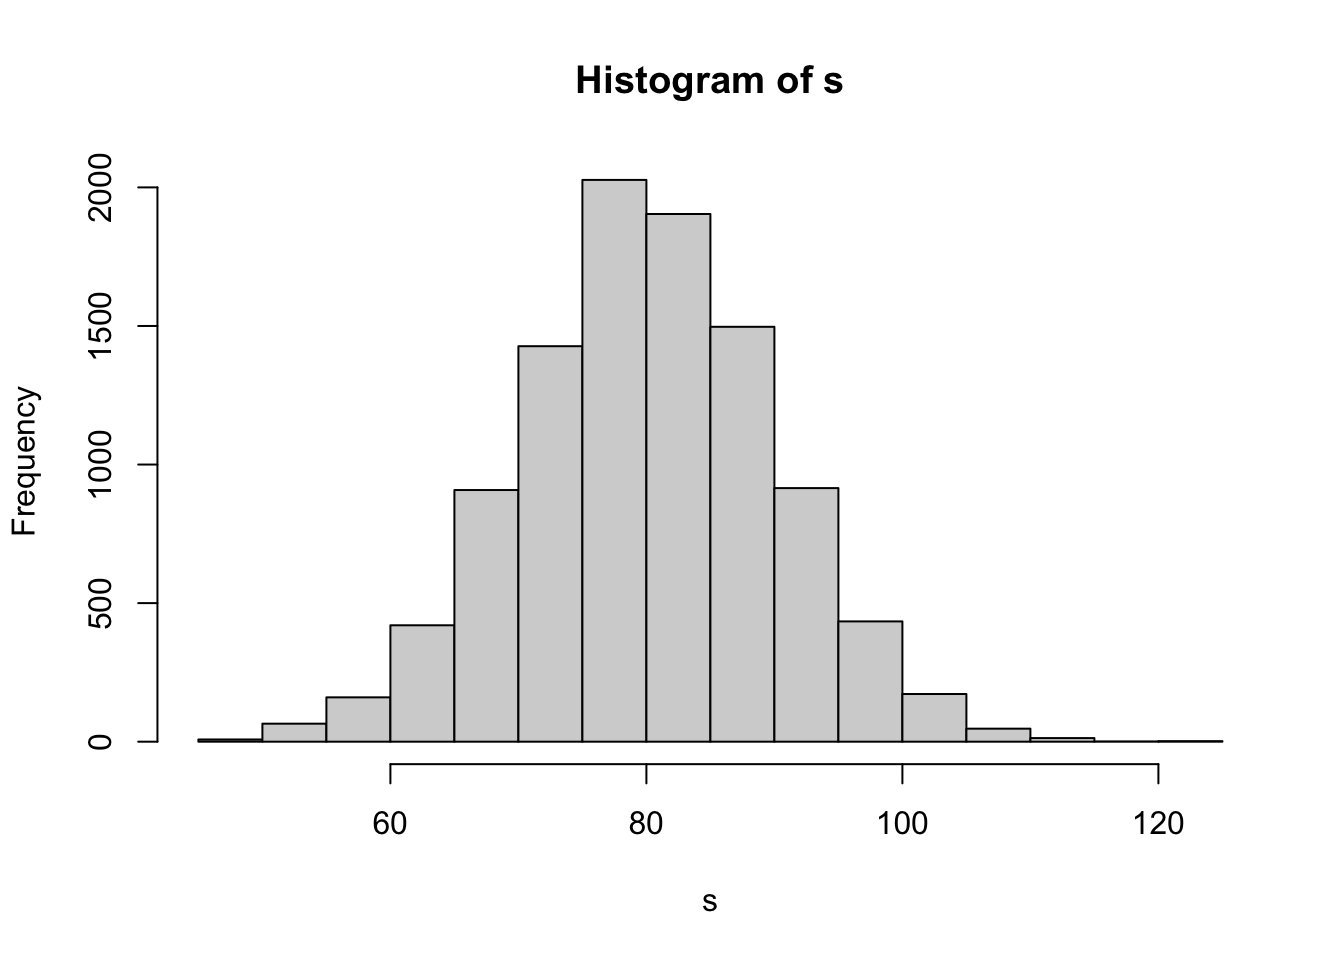
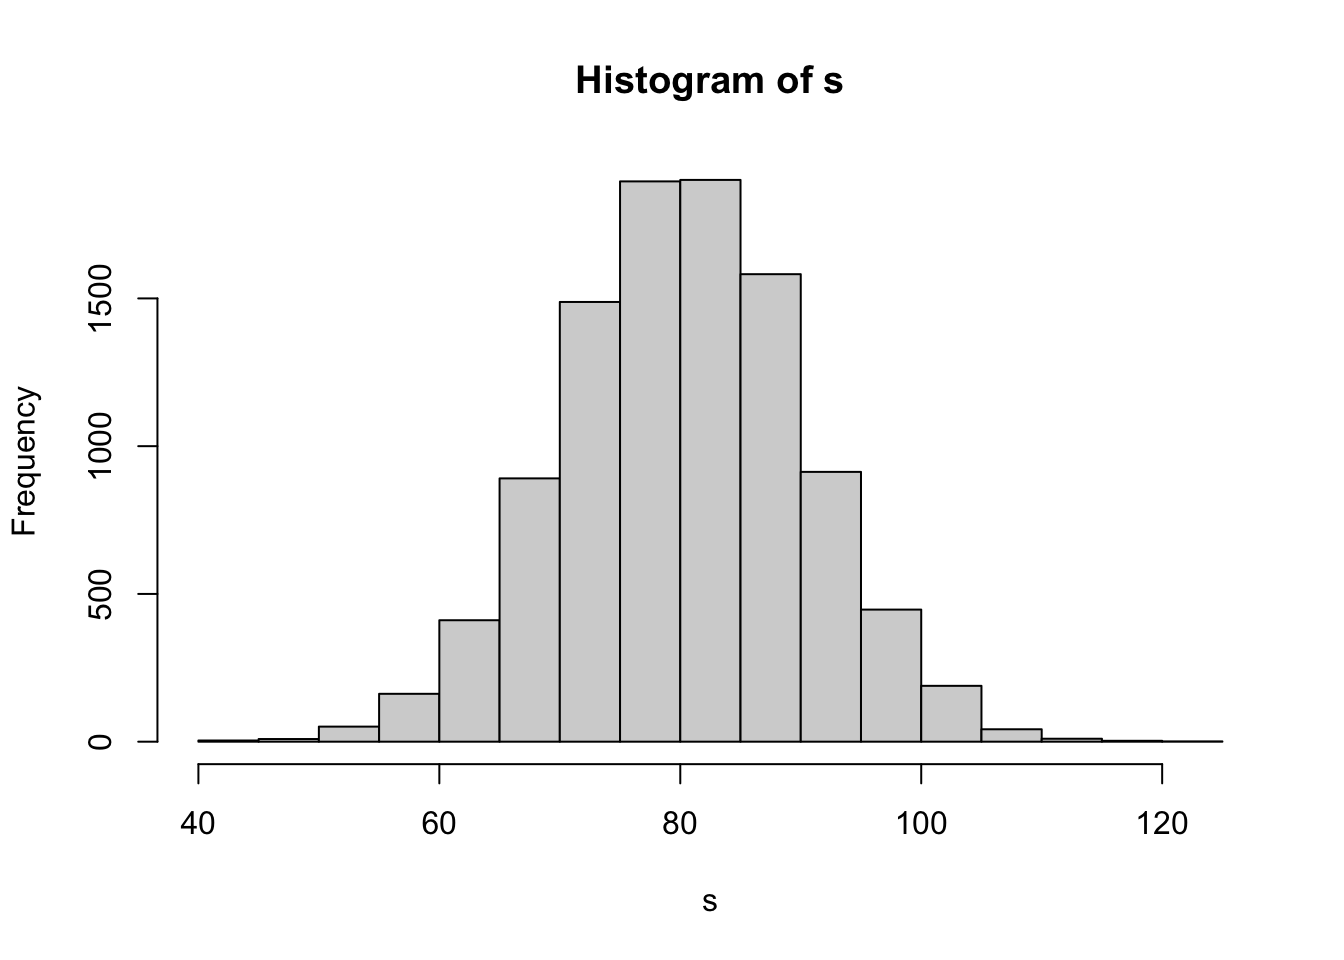
commit

diff --git a/docs/11-module.html b/docs/11-module.html
@@ -426,34 +426,34 @@ pre > code.sourceCode > span > a:first-child::before { text-decoration: underlin
 <span id="cb2-13"><a href="#cb2-13" aria-hidden="true" tabindex="-1"></a><span class="fu">head</span>(df)</span></code><button title="Copy to Clipboard" class="code-copy-button"><i class="bi"></i></button></pre></div>
 <div class="cell-output cell-output-stdout">
 <pre><code>##       name     house   code
-## 1      Ned     Stark 475336
-## 2    Sansa     Stark 283637
-## 3   Cersei Lannister 940472
-## 4   Tyrion Lannister 937513
-## 5      Jon     Stark 678205
-## 6 Daenerys Targaryen 826469</code></pre>
+## 1      Ned     Stark 557802
+## 2    Sansa     Stark 133149
+## 3   Cersei Lannister 656977
+## 4   Tyrion Lannister 330349
+## 5      Jon     Stark 142836
+## 6 Daenerys Targaryen 892825</code></pre>
 </div>
 <div class="sourceCode cell-code" id="cb4"><pre class="sourceCode r code-with-copy"><code class="sourceCode r"><span id="cb4-1"><a href="#cb4-1" aria-hidden="true" tabindex="-1"></a>df <span class="ot">&lt;-</span> <span class="fu">add_prefix</span>(my_data, <span class="at">prefix =</span> <span class="st">"House "</span>, <span class="at">variable =</span> <span class="st">"house"</span>)</span>
 <span id="cb4-2"><a href="#cb4-2" aria-hidden="true" tabindex="-1"></a><span class="fu">head</span>(df)</span></code><button title="Copy to Clipboard" class="code-copy-button"><i class="bi"></i></button></pre></div>
 <div class="cell-output cell-output-stdout">
 <pre><code>##       name           house   code
-## 1      Ned     House Stark 475336
-## 2    Sansa     House Stark 283637
-## 3   Cersei House Lannister 940472
-## 4   Tyrion House Lannister 937513
-## 5      Jon     House Stark 678205
-## 6 Daenerys House Targaryen 826469</code></pre>
+## 1      Ned     House Stark 557802
+## 2    Sansa     House Stark 133149
+## 3   Cersei House Lannister 656977
+## 4   Tyrion House Lannister 330349
+## 5      Jon     House Stark 142836
+## 6 Daenerys House Targaryen 892825</code></pre>
 </div>
 <div class="sourceCode cell-code" id="cb6"><pre class="sourceCode r code-with-copy"><code class="sourceCode r"><span id="cb6-1"><a href="#cb6-1" aria-hidden="true" tabindex="-1"></a>df <span class="ot">&lt;-</span> <span class="fu">add_prefix</span>(my_data, <span class="at">prefix =</span> <span class="st">"00001-"</span>, <span class="at">variable =</span> <span class="st">"code"</span>)</span>
 <span id="cb6-2"><a href="#cb6-2" aria-hidden="true" tabindex="-1"></a><span class="fu">head</span>(df)</span></code><button title="Copy to Clipboard" class="code-copy-button"><i class="bi"></i></button></pre></div>
 <div class="cell-output cell-output-stdout">
 <pre><code>##       name     house         code
-## 1      Ned     Stark 00001-475336
-## 2    Sansa     Stark 00001-283637
-## 3   Cersei Lannister 00001-940472
-## 4   Tyrion Lannister 00001-937513
-## 5      Jon     Stark 00001-678205
-## 6 Daenerys Targaryen 00001-826469</code></pre>
+## 1      Ned     Stark 00001-557802
+## 2    Sansa     Stark 00001-133149
+## 3   Cersei Lannister 00001-656977
+## 4   Tyrion Lannister 00001-330349
+## 5      Jon     Stark 00001-142836
+## 6 Daenerys Targaryen 00001-892825</code></pre>
 </div>
 </div>
 <blockquote class="blockquote">
@@ -463,23 +463,23 @@ pre > code.sourceCode > span > a:first-child::before { text-decoration: underlin
 <div class="sourceCode cell-code" id="cb8"><pre class="sourceCode r code-with-copy"><code class="sourceCode r"><span id="cb8-1"><a href="#cb8-1" aria-hidden="true" tabindex="-1"></a><span class="fu">head</span>(<span class="fu">add_prefix</span>(<span class="at">df =</span> my_data, <span class="at">variable =</span> <span class="st">"house"</span>))</span></code><button title="Copy to Clipboard" class="code-copy-button"><i class="bi"></i></button></pre></div>
 <div class="cell-output cell-output-stdout">
 <pre><code>##       name     house   code
-## 1      Ned     Stark 475336
-## 2    Sansa     Stark 283637
-## 3   Cersei Lannister 940472
-## 4   Tyrion Lannister 937513
-## 5      Jon     Stark 678205
-## 6 Daenerys Targaryen 826469</code></pre>
+## 1      Ned     Stark 557802
+## 2    Sansa     Stark 133149
+## 3   Cersei Lannister 656977
+## 4   Tyrion Lannister 330349
+## 5      Jon     Stark 142836
+## 6 Daenerys Targaryen 892825</code></pre>
 </div>
 <div class="sourceCode cell-code" id="cb10"><pre class="sourceCode r code-with-copy"><code class="sourceCode r"><span id="cb10-1"><a href="#cb10-1" aria-hidden="true" tabindex="-1"></a><span class="co"># versus...</span></span>
 <span id="cb10-2"><a href="#cb10-2" aria-hidden="true" tabindex="-1"></a><span class="fu">head</span>(<span class="fu">add_prefix</span>(<span class="at">variable =</span> <span class="st">"house"</span>, <span class="at">df =</span> my_data))</span></code><button title="Copy to Clipboard" class="code-copy-button"><i class="bi"></i></button></pre></div>
 <div class="cell-output cell-output-stdout">
 <pre><code>##       name     house   code
-## 1      Ned     Stark 475336
-## 2    Sansa     Stark 283637
-## 3   Cersei Lannister 940472
-## 4   Tyrion Lannister 937513
-## 5      Jon     Stark 678205
-## 6 Daenerys Targaryen 826469</code></pre>
+## 1      Ned     Stark 557802
+## 2    Sansa     Stark 133149
+## 3   Cersei Lannister 656977
+## 4   Tyrion Lannister 330349
+## 5      Jon     Stark 142836
+## 6 Daenerys Targaryen 892825</code></pre>
 </div>
 </div>
 <p>Note that in the example above, because the argument name <code>prefix</code> was excluded, the default value was used.</p>
@@ -488,34 +488,34 @@ pre > code.sourceCode > span > a:first-child::before { text-decoration: underlin
 <div class="sourceCode cell-code" id="cb12"><pre class="sourceCode r code-with-copy"><code class="sourceCode r"><span id="cb12-1"><a href="#cb12-1" aria-hidden="true" tabindex="-1"></a><span class="fu">head</span>(<span class="fu">add_prefix</span>(my_data, <span class="st">"00001-"</span>, <span class="st">"code"</span>))</span></code><button title="Copy to Clipboard" class="code-copy-button"><i class="bi"></i></button></pre></div>
 <div class="cell-output cell-output-stdout">
 <pre><code>##       name     house         code
-## 1      Ned     Stark 00001-475336
-## 2    Sansa     Stark 00001-283637
-## 3   Cersei Lannister 00001-940472
-## 4   Tyrion Lannister 00001-937513
-## 5      Jon     Stark 00001-678205
-## 6 Daenerys Targaryen 00001-826469</code></pre>
+## 1      Ned     Stark 00001-557802
+## 2    Sansa     Stark 00001-133149
+## 3   Cersei Lannister 00001-656977
+## 4   Tyrion Lannister 00001-330349
+## 5      Jon     Stark 00001-142836
+## 6 Daenerys Targaryen 00001-892825</code></pre>
 </div>
 <div class="sourceCode cell-code" id="cb14"><pre class="sourceCode r code-with-copy"><code class="sourceCode r"><span id="cb14-1"><a href="#cb14-1" aria-hidden="true" tabindex="-1"></a><span class="co"># versus...</span></span>
 <span id="cb14-2"><a href="#cb14-2" aria-hidden="true" tabindex="-1"></a><span class="fu">head</span>(<span class="fu">add_prefix</span>(my_data, <span class="st">"House "</span>, <span class="st">"house"</span>))</span></code><button title="Copy to Clipboard" class="code-copy-button"><i class="bi"></i></button></pre></div>
 <div class="cell-output cell-output-stdout">
 <pre><code>##       name           house   code
-## 1      Ned     House Stark 475336
-## 2    Sansa     House Stark 283637
-## 3   Cersei House Lannister 940472
-## 4   Tyrion House Lannister 937513
-## 5      Jon     House Stark 678205
-## 6 Daenerys House Targaryen 826469</code></pre>
+## 1      Ned     House Stark 557802
+## 2    Sansa     House Stark 133149
+## 3   Cersei House Lannister 656977
+## 4   Tyrion House Lannister 330349
+## 5      Jon     House Stark 142836
+## 6 Daenerys House Targaryen 892825</code></pre>
 </div>
 <div class="sourceCode cell-code" id="cb16"><pre class="sourceCode r code-with-copy"><code class="sourceCode r"><span id="cb16-1"><a href="#cb16-1" aria-hidden="true" tabindex="-1"></a><span class="co"># versus...</span></span>
 <span id="cb16-2"><a href="#cb16-2" aria-hidden="true" tabindex="-1"></a><span class="fu">head</span>(<span class="fu">add_prefix</span>(my_data, <span class="st">""</span>, <span class="st">"house"</span>))</span></code><button title="Copy to Clipboard" class="code-copy-button"><i class="bi"></i></button></pre></div>
 <div class="cell-output cell-output-stdout">
 <pre><code>##       name     house   code
-## 1      Ned     Stark 475336
-## 2    Sansa     Stark 283637
-## 3   Cersei Lannister 940472
-## 4   Tyrion Lannister 937513
-## 5      Jon     Stark 678205
-## 6 Daenerys Targaryen 826469</code></pre>
+## 1      Ned     Stark 557802
+## 2    Sansa     Stark 133149
+## 3   Cersei Lannister 656977
+## 4   Tyrion Lannister 330349
+## 5      Jon     Stark 142836
+## 6 Daenerys Targaryen 892825</code></pre>
 </div>
 </div>
 <p>If we try to run the line below, however, it throws an error because too few (unnamed) arguments are passed to the function for it to be able to disambiguate them:</p>
@@ -787,35 +787,35 @@ pre > code.sourceCode > span > a:first-child::before { text-decoration: underlin
 <div class="cell-output cell-output-stdout">
 <details><summary>Show Output</summary>
 <pre class="details" data-summary="Show Output"><code>##   name house   code
-## 1  Ned Stark 475336
+## 1  Ned Stark 557802
 ##    name house   code
-## 2 Sansa Stark 283637
+## 2 Sansa Stark 133149
 ##     name     house   code
-## 3 Cersei Lannister 940472
+## 3 Cersei Lannister 656977
 ##     name     house   code
-## 4 Tyrion Lannister 937513
+## 4 Tyrion Lannister 330349
 ##   name house   code
-## 5  Jon Stark 678205
+## 5  Jon Stark 142836
 ##       name     house   code
-## 6 Daenerys Targaryen 826469
+## 6 Daenerys Targaryen 892825
 ##   name house   code
-## 7 Aria Stark 678140
+## 7 Aria Stark 123131
 ##      name house   code
-## 8 Brienne Tarth 631290
+## 8 Brienne Tarth 682530
 ##     name house   code
-## 9 Rickon Stark 871332
+## 9 Rickon Stark 775599
 ##      name house   code
-## 10 Edmure Tully 624999
+## 10 Edmure Tully 818978
 ##     name   house   code
-## 11 Petyr Baelish 694188
+## 11 Petyr Baelish 190296
 ##     name     house   code
-## 12 Jamie Lannister 207159
+## 12 Jamie Lannister 800669
 ##      name     house   code
-## 13 Robert Baratheon 577321
+## 13 Robert Baratheon 928101
 ##       name     house   code
-## 14 Stannis Baratheon 761630
+## 14 Stannis Baratheon 676786
 ##     name   house   code
-## 15 Theon Greyjoy 351664</code></pre>
+## 15 Theon Greyjoy 737165</code></pre>
 </details>
 </div>
 </div>
@@ -832,21 +832,21 @@ pre > code.sourceCode > span > a:first-child::before { text-decoration: underlin
 </details>
 <div class="cell-output cell-output-stdout">
 <details><summary>Show Output</summary>
-<pre class="details" data-summary="Show Output"><code>## [1] "633574"
-## [1] "736382"
-## [1] "274049"
-## [1] "315739"
-## [1] "502876"
-## [1] "964628"
-## [1] "041876"
-## [1] "092136"
-## [1] "233178"
-## [1] "999426"
-## [1] "881496"
-## [1] "951702"
-## [1] "123775"
-## [1] "036167"
-## [1] "466153"</code></pre>
+<pre class="details" data-summary="Show Output"><code>## [1] "208755"
+## [1] "941331"
+## [1] "779656"
+## [1] "943033"
+## [1] "638241"
+## [1] "528298"
+## [1] "131321"
+## [1] "035286"
+## [1] "995577"
+## [1] "879818"
+## [1] "692091"
+## [1] "966008"
+## [1] "101829"
+## [1] "687676"
+## [1] "561737"</code></pre>
 </details>
 </div>
 </div>

diff --git a/docs/exercise-03.html b/docs/exercise-03.html
@@ -421,7 +421,7 @@ window.Quarto = {
 <h4 class="unnumbered anchored" data-anchor-id="preliminaries">Preliminaries</h4>
 <ul>
 <li><p>Set up a new <strong><em>GitHub</em></strong> repo in your <strong><em>GitHub</em></strong> workspace called “exercise-03” and clone that down your computer as a new <strong><em>RStudio</em></strong> project. The instructions outlined as <strong>Method 1</strong> in <a href="06-module.html"><strong>Module 6</strong></a> will be helpful.</p></li>
-<li><p>Load the “data-wrangling.csv” dataset from <a href="https://raw.githubusercontent.com/difiore/ada-2024-datasets/main/data-wrangling.csv"><strong>this URL</strong></a> as a tabular data structure named <strong>d</strong> and look at the variables it contains, which are a subset of those in the Kamilar and Cooper dataset on primate ecology, behavior, and life history that we have used previously.</p></li>
+<li><p>Load the “data-wrangling.csv” dataset from <a href="https://raw.githubusercontent.com/difiore/ada-datasets/main/data-wrangling.csv"><strong>this URL</strong></a> as a tabular data structure named <strong>d</strong> and look at the variables it contains, which are a subset of those in the Kamilar and Cooper dataset on primate ecology, behavior, and life history that we have used previously.</p></li>
 </ul>
 <blockquote class="blockquote">
 <p><strong>HINT:</strong> You can use the <code>names()</code> function to see a list of variable names in the dataset</p>
@@ -1002,7 +1002,7 @@ window.document.addEventListener("DOMContentLoaded", function (event) {
 <span id="cb2-12"><a href="#cb2-12" aria-hidden="true" tabindex="-1"></a></span>
 <span id="cb2-13"><a href="#cb2-13" aria-hidden="true" tabindex="-1"></a><span class="ss">- </span>Set up a new ***GitHub*** repo in your ***GitHub*** workspace called "exercise-03" and clone that down your computer as a new ***RStudio*** project. The instructions outlined as **Method 1** in [**Module 6**](#module-06) will be helpful.</span>
 <span id="cb2-14"><a href="#cb2-14" aria-hidden="true" tabindex="-1"></a></span>
-<span id="cb2-15"><a href="#cb2-15" aria-hidden="true" tabindex="-1"></a><span class="ss">- </span>Load the "data-wrangling.csv" dataset from <span class="co">[</span><span class="ot">**this URL**</span><span class="co">](https://raw.githubusercontent.com/difiore/ada-2024-datasets/main/data-wrangling.csv)</span> as a tabular data structure named **d** and look at the variables it contains, which are a subset of those in the Kamilar and Cooper dataset on primate ecology, behavior, and life history that we have used previously.</span>
+<span id="cb2-15"><a href="#cb2-15" aria-hidden="true" tabindex="-1"></a><span class="ss">- </span>Load the "data-wrangling.csv" dataset from <span class="co">[</span><span class="ot">**this URL**</span><span class="co">](https://raw.githubusercontent.com/difiore/ada-datasets/main/data-wrangling.csv)</span> as a tabular data structure named **d** and look at the variables it contains, which are a subset of those in the Kamilar and Cooper dataset on primate ecology, behavior, and life history that we have used previously.</span>
 <span id="cb2-16"><a href="#cb2-16" aria-hidden="true" tabindex="-1"></a></span>
 <span id="cb2-17"><a href="#cb2-17" aria-hidden="true" tabindex="-1"></a><span class="at">&gt; **HINT:** You can use the </span><span class="in">`names()`</span><span class="at"> function to see a list of variable names in the dataset</span></span>
 <span id="cb2-18"><a href="#cb2-18" aria-hidden="true" tabindex="-1"></a></span>

diff --git a/docs/04-module.html b/docs/04-module.html
@@ -783,7 +783,7 @@ pre > code.sourceCode > span > a:first-child::before { text-decoration: underlin
 </details>
 <div class="cell-output cell-output-stdout">
 <details><summary>Show Output</summary>
-<pre class="details" data-summary="Show Output"><code>## [1] 80.05441</code></pre>
+<pre class="details" data-summary="Show Output"><code>## [1] 80.19937</code></pre>
 </details>
 </div>
 <details class="code-fold">
@@ -792,7 +792,7 @@ pre > code.sourceCode > span > a:first-child::before { text-decoration: underlin
 </details>
 <div class="cell-output cell-output-stdout">
 <details><summary>Show Output</summary>
-<pre class="details" data-summary="Show Output"><code>## [1] 9.988147</code></pre>
+<pre class="details" data-summary="Show Output"><code>## [1] 9.988367</code></pre>
 </details>
 </div>
 </div>
